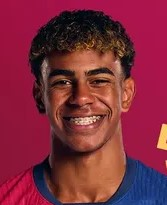
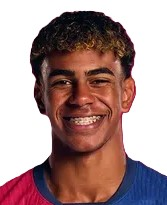
ajustements

diff --git a/src/components/Affiche.jsx b/src/components/Affiche.jsx
@@ -16,7 +16,6 @@ const Affiche = ({ match, roundd, buteurHome, buteurExt, buteurHomeP, buteurExtP
             <View style={styles.ligue}>
                 <Text style={{fontFamily: "Kanitt"}}>{match.league.name} - Journee {roundd}</Text>
             </View>
-<Image source={ match.league.logo === "https://media.api-sports.io/football/leagues/61.png" ? ligue1 : {uri : match.league.logo}} style={{height: 50, width: 50, objectFit: "contain", marginBlock: 10}} />
             <View style={styles.datelieu}>
                 <Text style={styles.text}>{formattedDate} - {formattedHour}</Text>
                 <Text style={styles.text}>{match.fixture.venue.name} , {match.fixture.venue.city}</Text>
@@ -25,7 +24,7 @@ const Affiche = ({ match, roundd, buteurHome, buteurExt, buteurHomeP, buteurExtP
             <LinearGradient colors={['rgba(255, 255, 255, 0)', 'rgba(0, 0, 0, 0.8)']} style={styles.affiche}>
             <TouchableOpacity style={styles.domicile} onPress={()=> navigation.navigate("FicheEquipe", {id: match.teams.home.id, league: match.league.id, img: match.teams.home.logo})}>
           <Image source={{ uri: match.teams.home.logo }} style={styles.teamLogo} />
-          <Text style={{ fontFamily: 'Kanito', color: 'white', fontSize: 15 }}>{match.teams.home.name}</Text>
+          <Text style={{ fontFamily: 'Kanito', color: 'white', fontSize: 14 }}>{match.teams.home.name}</Text>
           <View style={{gap: 5, flexDirection: "row", marginTop: 5}}>{formeHome?.split('').map((char, index) => (
           char === 'L' ? (
             <View style={styles.defaite}>
@@ -45,6 +44,8 @@ const Affiche = ({ match, roundd, buteurHome, buteurExt, buteurHomeP, buteurExtP
         </TouchableOpacity>
 
         <View style={styles.score}>
+        <Image source={ match.league.logo === "https://media.api-sports.io/football/leagues/61.png" ? ligue1 : {uri : match.league.logo}} style={{height: 36, width: 36, objectFit: "contain", marginBlock: 1}} />
+
           <Text style={styles.scoreText}>
             {match.goals.home} - {match.goals.away}
           </Text>
@@ -52,7 +53,7 @@ const Affiche = ({ match, roundd, buteurHome, buteurExt, buteurHomeP, buteurExtP
 
         <TouchableOpacity style={styles.exterieur} onPress={()=> navigation.navigate("FicheEquipe", {id: match.teams.away.id, league: match.league.id, img: match.teams.away.logo})}>
           <Image source={{ uri: match.teams.away.logo }} style={styles.teamLogo} />
-          <Text style={{ fontFamily: 'Kanito', color: 'white', fontSize: 15 }}>{match.teams.away.name}</Text>
+          <Text style={{ fontFamily: 'Kanito', color: 'white', fontSize: 14 }}>{match.teams.away.name}</Text>
           <View style={{gap: 5, flexDirection: "row"}}>{formeExt?.split('').map((char, index) => (
           char === 'L' ? (
             <View style={styles.defaite}>
@@ -163,7 +164,7 @@ fontFamily: "Kanito",
 fontSize: 12
     },
     scoreText: {
-        fontSize: 24,
+        fontSize: 26,
         color: "white",
         fontFamily: "Kanito"
     },

diff --git a/src/screens/FicheJoueur.jsx b/src/screens/FicheJoueur.jsx
@@ -47,6 +47,7 @@ import mbappe from "../assets/portraits/mbappe.jpg"
 import vini from "../assets/portraits/vini.jpg"
 import palmer from "../assets/portraits/palmer.jpg"
 import messi from "../assets/trophees/messi.jpg"
+import griezmann from "../assets/portraits/griezmann.png"
 
 
 
@@ -218,7 +219,7 @@ function FicheJoueur() {
     <ScrollView contentContainerStyle={styles.blocJoueur}>
       <View style={styles.article}>
         <LinearGradient colors={["black", "steelblue"]} style={styles.infosJoueur}>
-          <Image source={ joueur.player.id === 1100 ? haaland : joueur.player.id === 161904 ? barcola : joueur.player.id === 336657 ? zaire : joueur.player.id === 153 ? dembele : joueur.player.id === 129718 ? bellingham : joueur.player.id === 386828 ? yamal : joueur.player.id === 10009 ? rodrygo : joueur.player.id === 18979 ? gyokeres : joueur.player.id === 291964 ? guller : joueur.player.id === 343027 ? doue : joueur.player.id === 483 ? kvara : joueur.player.id === 154 ? goat : joueur.player.id === 306 ? salah : joueur.player.id === 51617 ? darwin : joueur.player.id === 1257 ? kounde : joueur.player.id === 278 ? mbappe : joueur.player.id === 377122 ? endrick : joueur.player.id === 762 ? vini : joueur.player.id === 152982 ? palmer : { uri: joueur.player.photo }} style={styles.photo} />
+          <Image source={ joueur.player.id === 1100 ? haaland : joueur.player.id === 161904 ? barcola : joueur.player.id === 336657 ? zaire : joueur.player.id === 153 ? dembele : joueur.player.id === 129718 ? bellingham : joueur.player.id === 386828 ? yamal : joueur.player.id === 10009 ? rodrygo : joueur.player.id === 18979 ? gyokeres : joueur.player.id === 291964 ? guller : joueur.player.id === 343027 ? doue : joueur.player.id === 483 ? kvara : joueur.player.id === 154 ? goat : joueur.player.id === 306 ? salah : joueur.player.id === 51617 ? darwin : joueur.player.id === 1257 ? kounde : joueur.player.id === 278 ? mbappe : joueur.player.id === 377122 ? endrick : joueur.player.id === 762 ? vini : joueur.player.id === 152982 ? palmer : joueur.player.id === 56 ? griezmann : { uri: joueur.player.photo }} style={styles.photo} />
           <View style={styles.bio}>
             <Text style={styles.name}>{joueur.player.name}</Text>
             <Text style={styles.infoText}>Né le {formattedDate} à {joueur.player.birth.place}, {joueur.player.birth.country}</Text>

diff --git a/src/components/Tableau.jsx b/src/components/Tableau.jsx
@@ -76,7 +76,7 @@ console.log(filter)
   return (
 <LinearGradient colors={["rgb(176, 196, 222)", 'rgba(0, 0, 0, 0.35)']} style={styles.container}>
         <Text style={styles.title}>Calendrier et Résultats</Text>
-        <Image source={id === 61 ? ligue1 : {uri : `https://media.api-sports.io/football/leagues/${id}.png`}} style={{width: 50, height: 50, objectFit: "contain"}} />
+        <Image source={id === 61 ? ligue1 : {uri : `https://media.api-sports.io/football/leagues/${id}.png`}} style={{width: 40, height: 40, objectFit: "contain"}} />
       <Journees
         setFilter={setFilter}
         round={round}

diff --git a/src/screens/FicheMatch.jsx b/src/screens/FicheMatch.jsx
@@ -268,7 +268,6 @@ if (!compoDom || !compoExt) {
     return (
         <View>
     <Precedent />
-    <Image source={match.teams.home.logo} />
         <ScrollView contentContainerStyle={styles.bloc}>
             <Affiche match={match} roundd={roundd} buteurHome={buteurHome} buteurExt={buteurExt} buteurHomeP={buteurHomeP} buteurExtP={buteurExtP} formeHome={formeHome} formeExt={formeExt}  />
             <View style={styles.section}>

diff --git a/src/screens/FicheEquipe.jsx b/src/screens/FicheEquipe.jsx
@@ -340,6 +340,7 @@ width: "98%"
     shadowOffset: { width: 0, height: 0 }, // shadow offset
     shadowOpacity: 0.5, // shadow opacity
     shadowRadius: 4,
+    elevation: 5
       },
       leagues: {
         flexDirection: "row",
